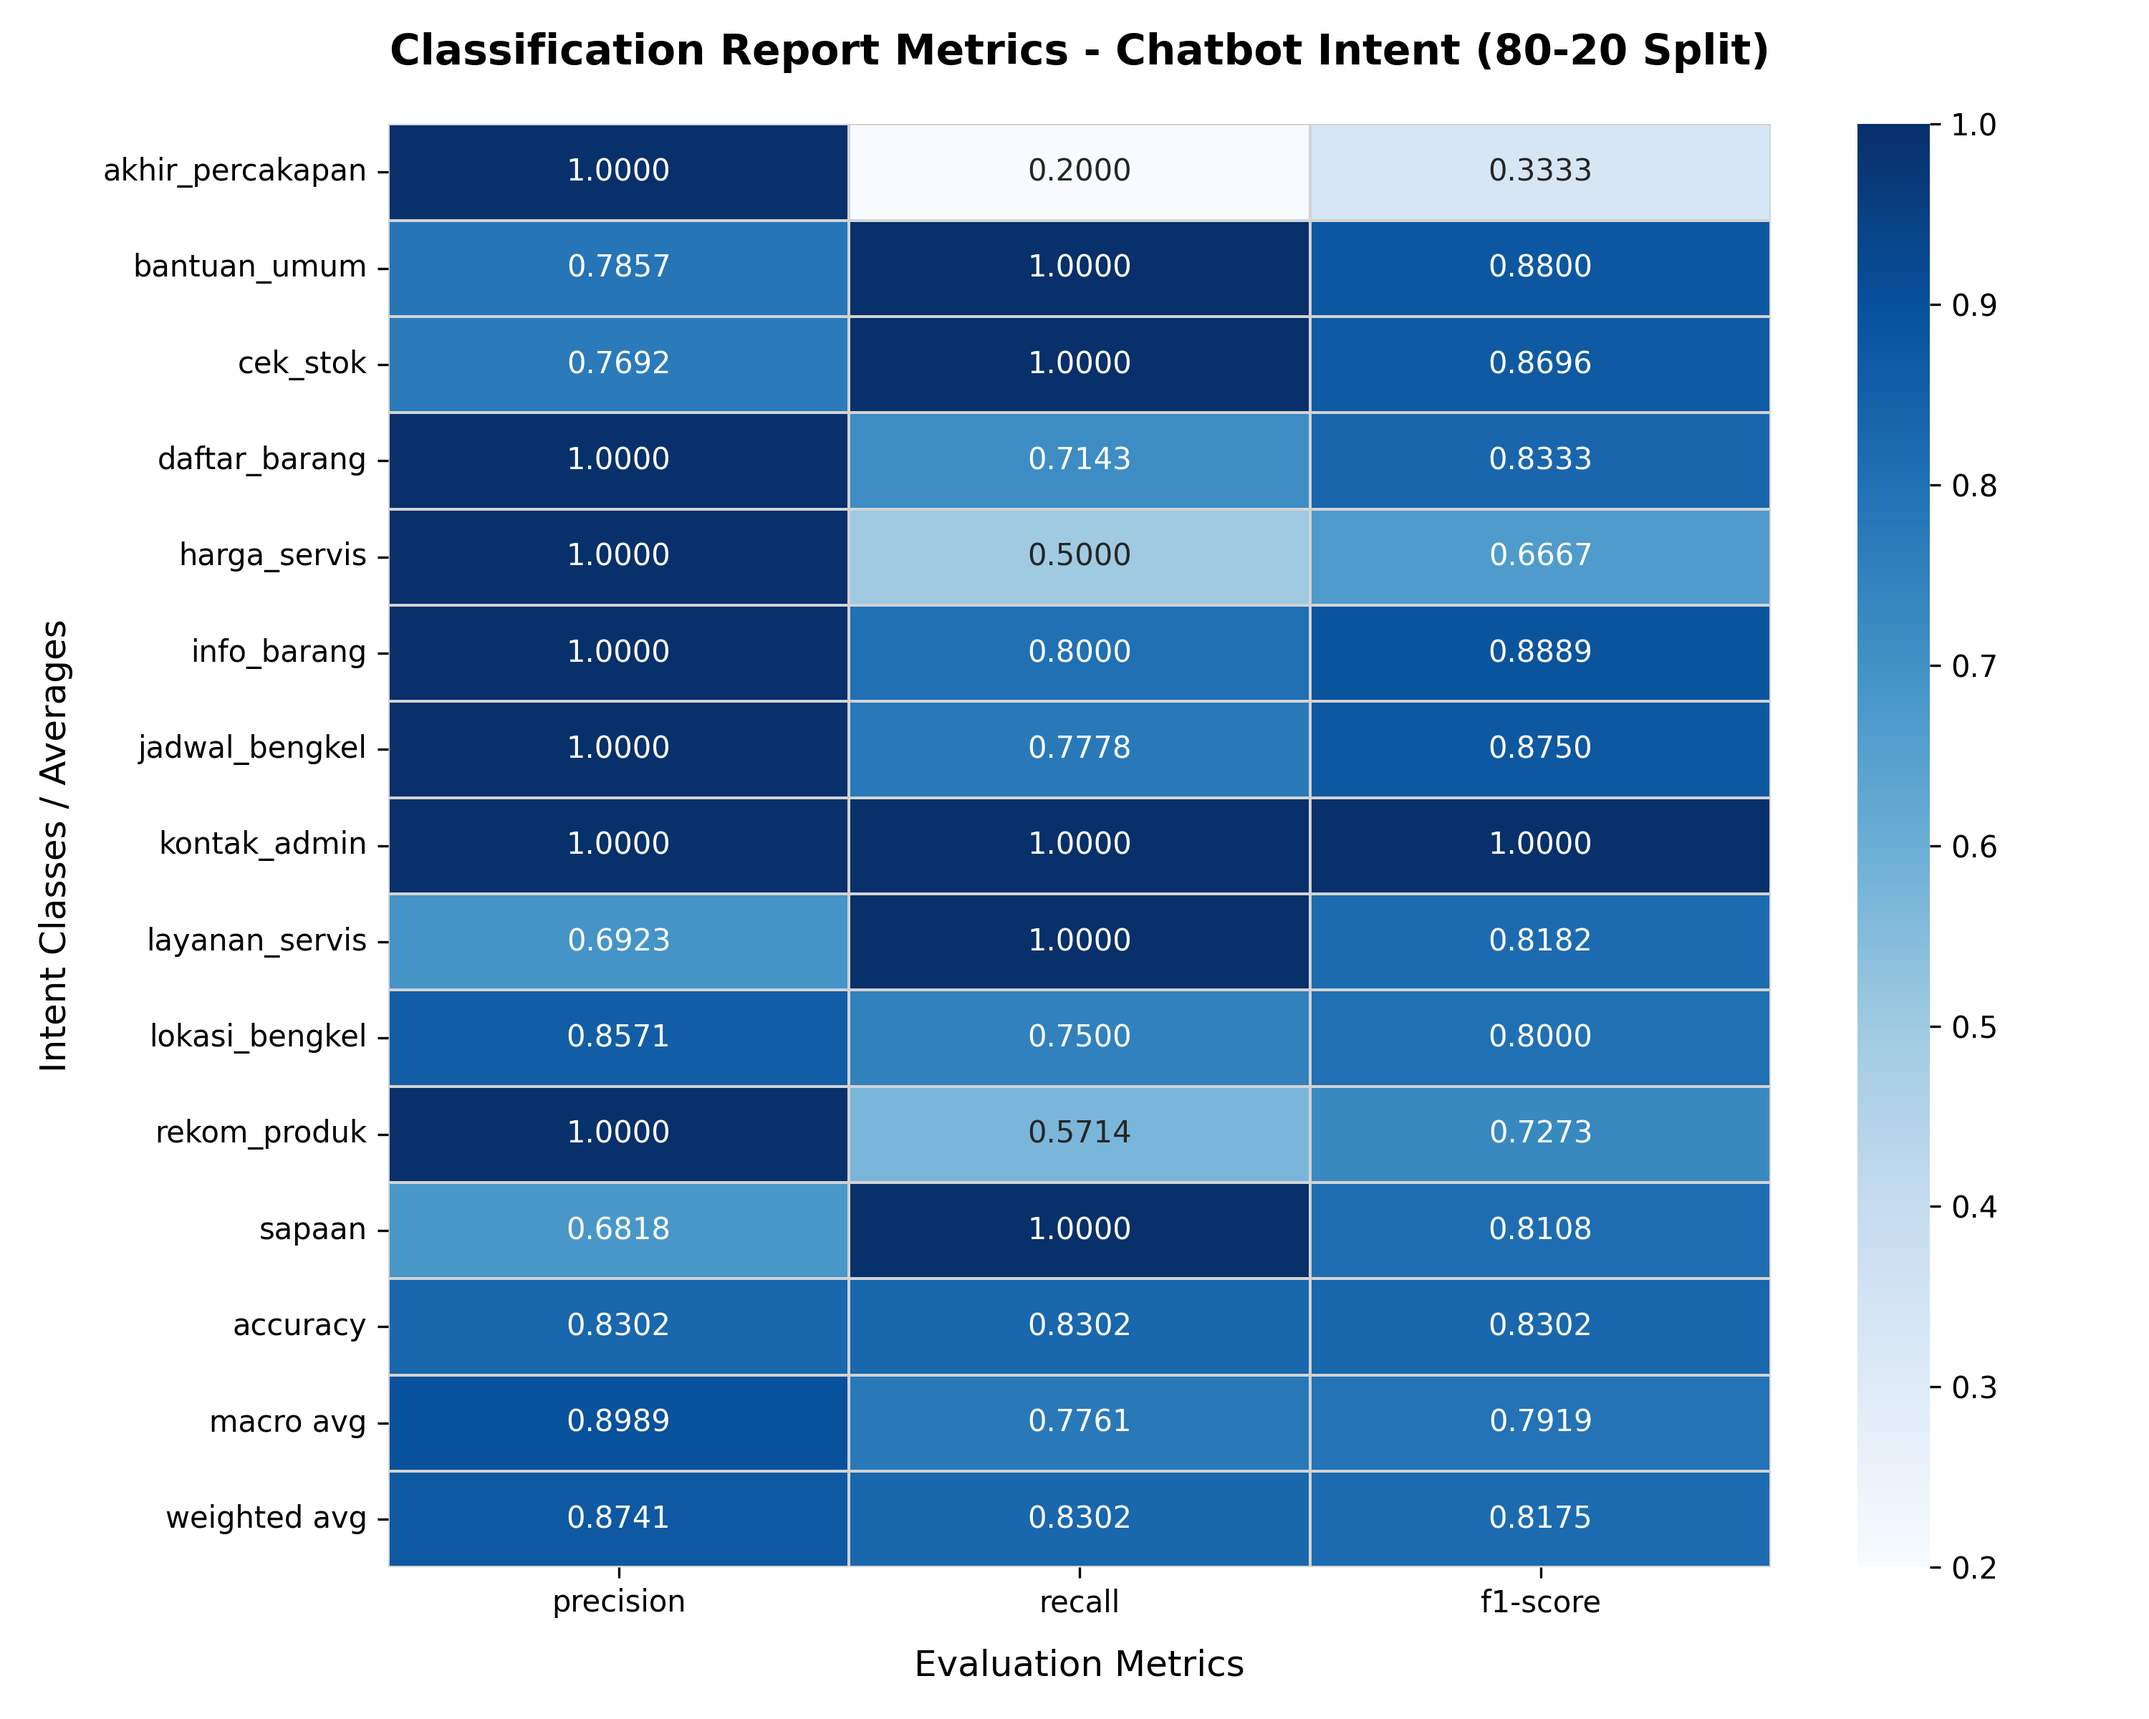
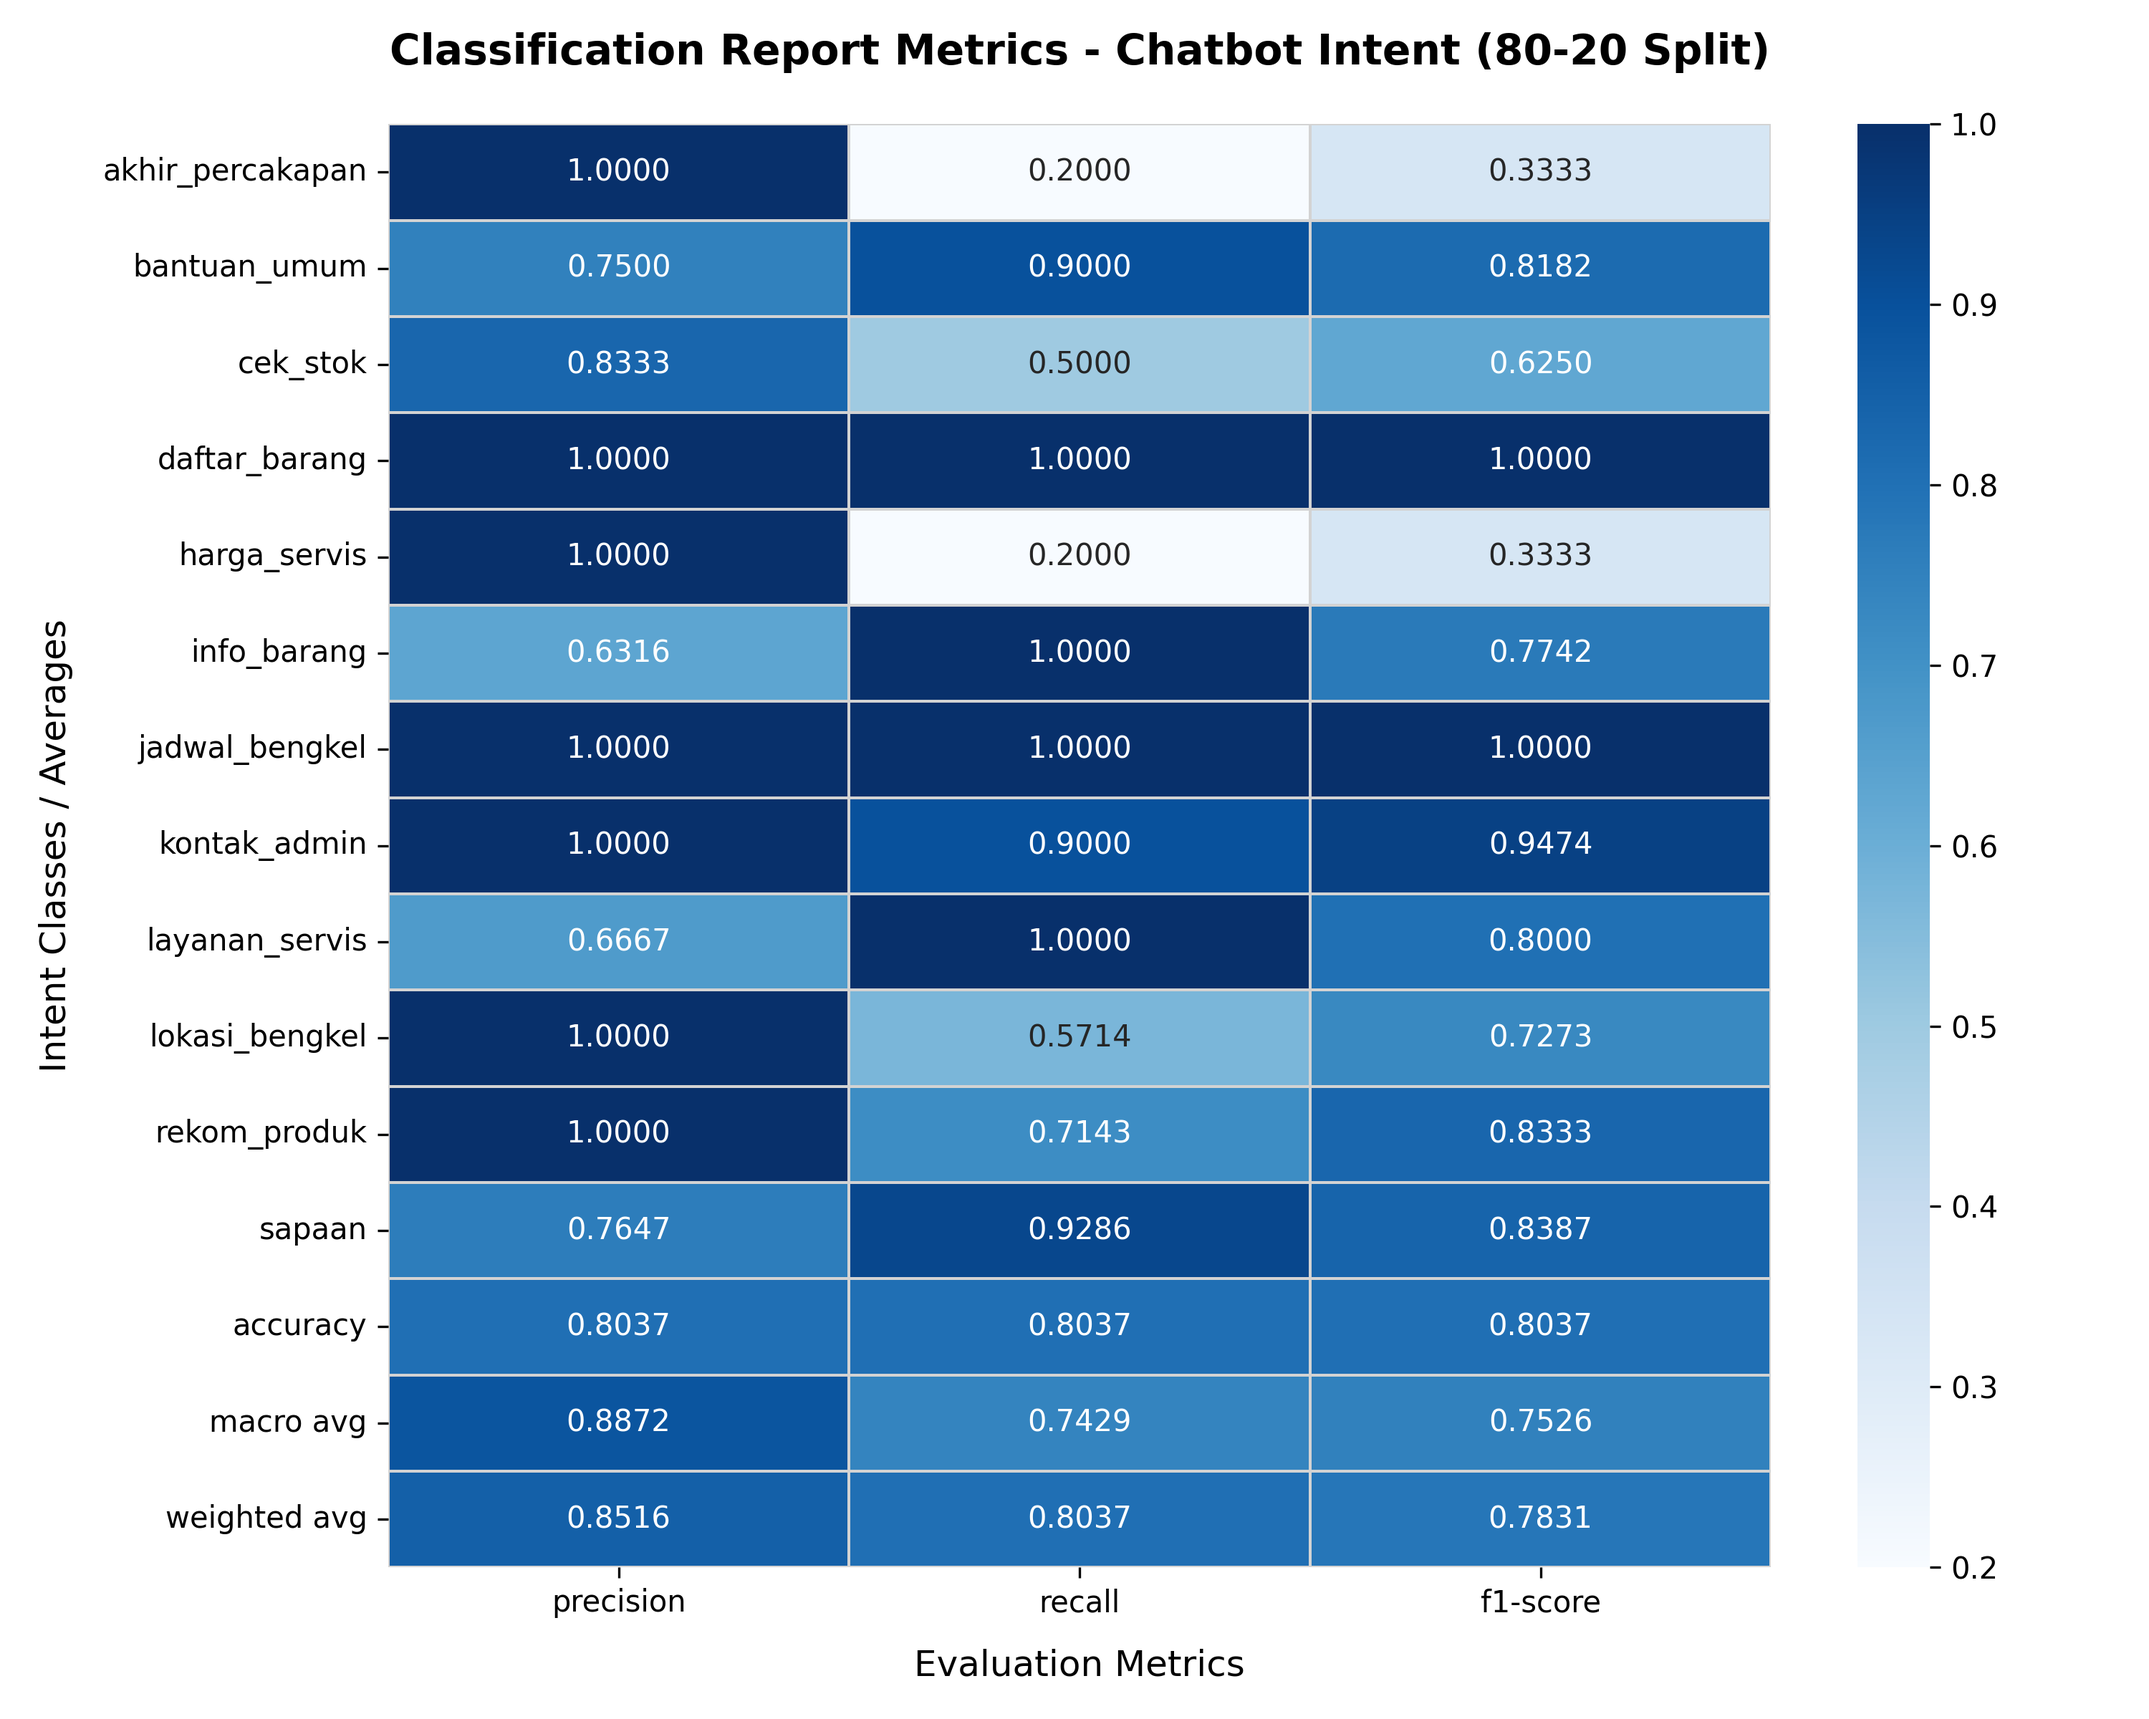
Fix data augmentation mapping and update service list intent classification

diff --git a/scripts/augment_and_retrain.py b/scripts/augment_and_retrain.py
@@ -84,16 +84,34 @@ def make_templates():
 def generate_augmentations(df, target_count=240):
     templates = make_templates()
     rows = []
-    by_intent = {
-        intent: group.iloc[0].to_dict()
-        for intent, group in df.groupby('intent')
-    }
 
     for intent, phrases in templates.items():
-        base_row = by_intent[intent]
+        intent_df = df[df['intent'] == intent].reset_index(drop=True)
+        if intent_df.empty:
+            continue
+
+        # Fit a local vectorizer to match generated phrases to closest database questions
+        from sklearn.feature_extraction.text import TfidfVectorizer
+        local_vec = TfidfVectorizer(token_pattern=r'(?u)\b\w+\b')
+        try:
+            local_vec.fit(intent_df['processed_question'])
+            db_vecs = local_vec.transform(intent_df['processed_question'])
+            has_vocab = True
+        except ValueError:
+            has_vocab = False
+
         phrase_pool = expand_phrase_variants(phrases)
 
         for phrase in phrase_pool:
+            if has_vocab:
+                processed_phrase = preprocess_text(phrase)
+                phrase_vec = local_vec.transform([processed_phrase])
+                sims = cosine_similarity(phrase_vec, db_vecs)
+                best_idx = sims.argmax()
+                base_row = intent_df.iloc[best_idx].to_dict()
+            else:
+                base_row = intent_df.iloc[0].to_dict()
+
             rows.append({
                 'intent': intent,
                 'pertanyaan': phrase,
@@ -109,10 +127,15 @@ def generate_augmentations(df, target_count=240):
     if len(augmented) < target_count:
         extra_rows = []
         existing_processed = set(augmented['processed_question']) | set(df['processed_question'])
-        base_phrases = augmented['pertanyaan'].tolist() or [row['pertanyaan'] for row in rows]
+        base_records = [r for r in rows]
 
         while len(augmented) + len(extra_rows) < target_count:
-            phrase = random.choice(base_phrases)
+            record = random.choice(base_records)
+            phrase = record['pertanyaan']
+            intent = record['intent']
+            jawaban = record['jawaban']
+            action = record['action']
+
             candidate = random.choice([
                 'tolong ', 'apakah ', 'mohon ', 'saya mau ', 'saya ingin ', 'bagaimana ', ''
             ]) + phrase
@@ -122,8 +145,8 @@ def generate_augmentations(df, target_count=240):
                 extra_rows.append({
                     'intent': intent,
                     'pertanyaan': candidate,
-                    'jawaban': base_row['jawaban'],
-                    'action': base_row['action'],
+                    'jawaban': jawaban,
+                    'action': action,
                     'processed_question': processed
                 })
                 existing_processed.add(processed)
@@ -133,6 +156,7 @@ def generate_augmentations(df, target_count=240):
 
     augmented = augmented.sample(n=target_count, random_state=42).reset_index(drop=True)
     return augmented
+
 
 
 def train_models(dataset):

diff --git a/web/app.py b/web/app.py
@@ -26,7 +26,7 @@ from werkzeug.security import check_password_hash
 app = Flask(__name__)
 
 # =====================================
-# SECRET KEY
+# SECRET KEY (trigger reload)
 # =====================================
 app.secret_key = os.environ.get(
     "FLASK_SECRET_KEY",
